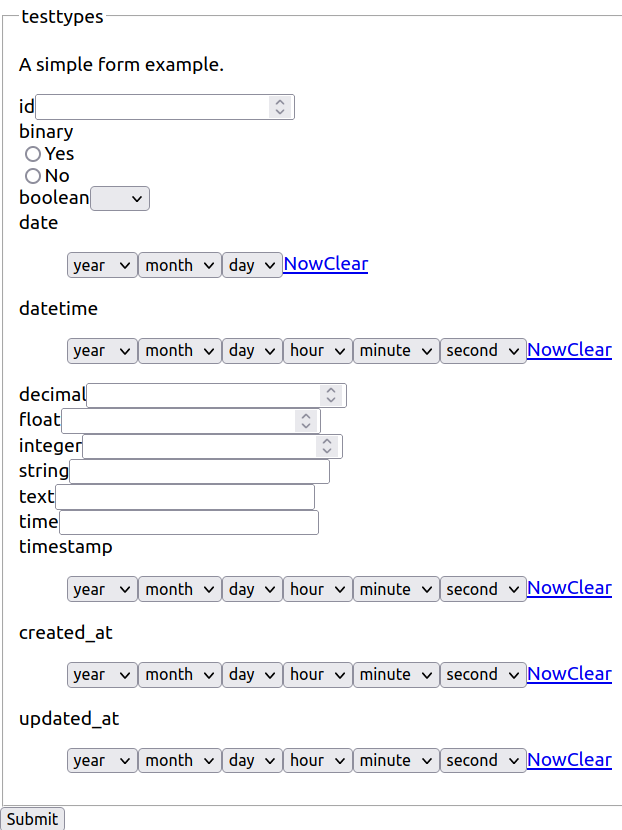
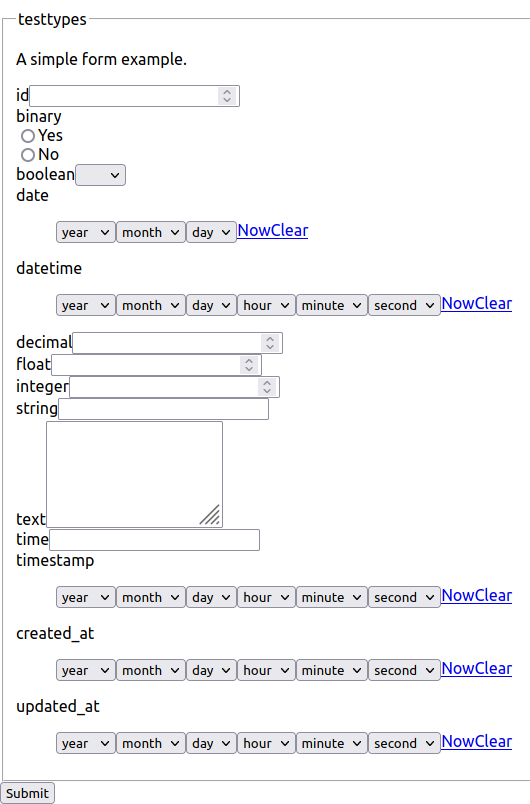
Better screenshot

Changed region(s): [[0.0, 0.0, 1.0, 1.0], [0.483, 0.5908, 0.5132, 0.653]]

diff --git a/src/components/Update.js b/src/components/Update.js
@@ -7,12 +7,13 @@ import { useRouteMatch } from "react-router-dom";
 const Update = () => {
     const route = useRouteMatch('/update/:table/:id');
     const form = require(`./forms/${route.params.table}_form.json`);
+    const ui = require(`./forms/${route.params.table}_ui.json`);
     const dispatch = useDispatch();
     const handleSubmit = FormData => {
         dispatch(update({table: route.params.table, id: route.params.id, data: FormData.formData}));
     };
     return (
-        <Form schema={form} onSubmit={handleSubmit} />
+        <Form schema={form} uiSchema={ui} onSubmit={handleSubmit} />
     );
 };
 

diff --git a/src/scripts/formify.js b/src/scripts/formify.js
@@ -52,7 +52,6 @@ let fs = require('fs');
     }
 
     for (const table in data){
-      tablesArr.push(table);
       let json = await ejs.renderFile('./ui.ejs', {data: {[table]: data[table]}});
       fs.writeFile(`../components/forms/${table}_ui.json`, json, function (err) {
         if (err) return console.log(err);
